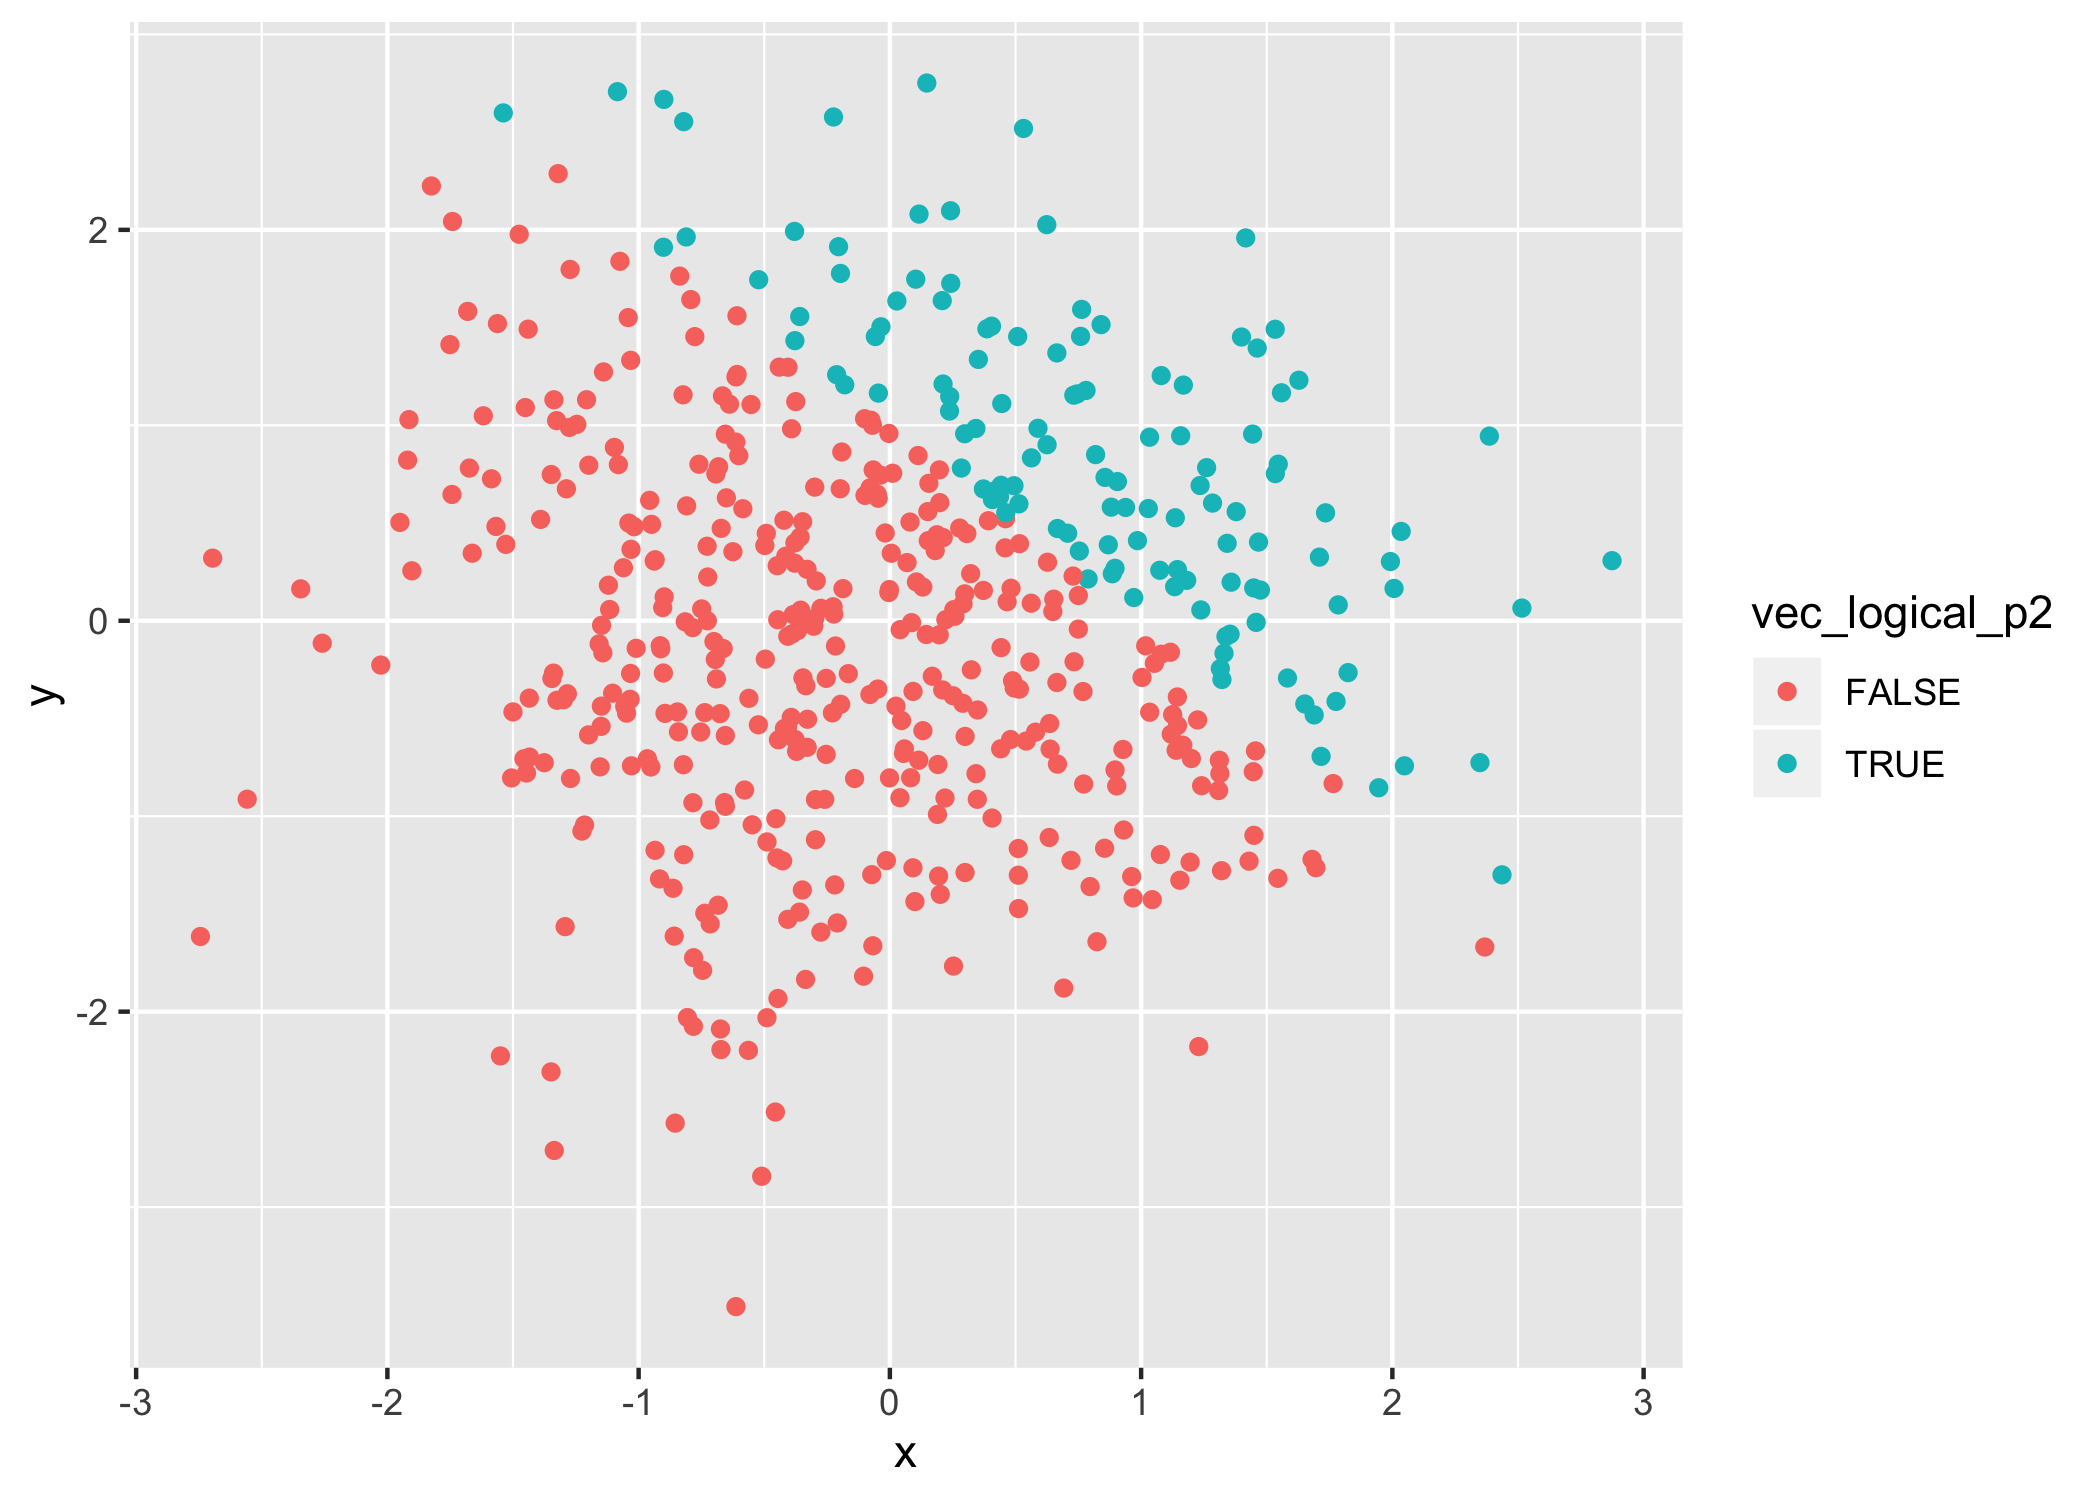
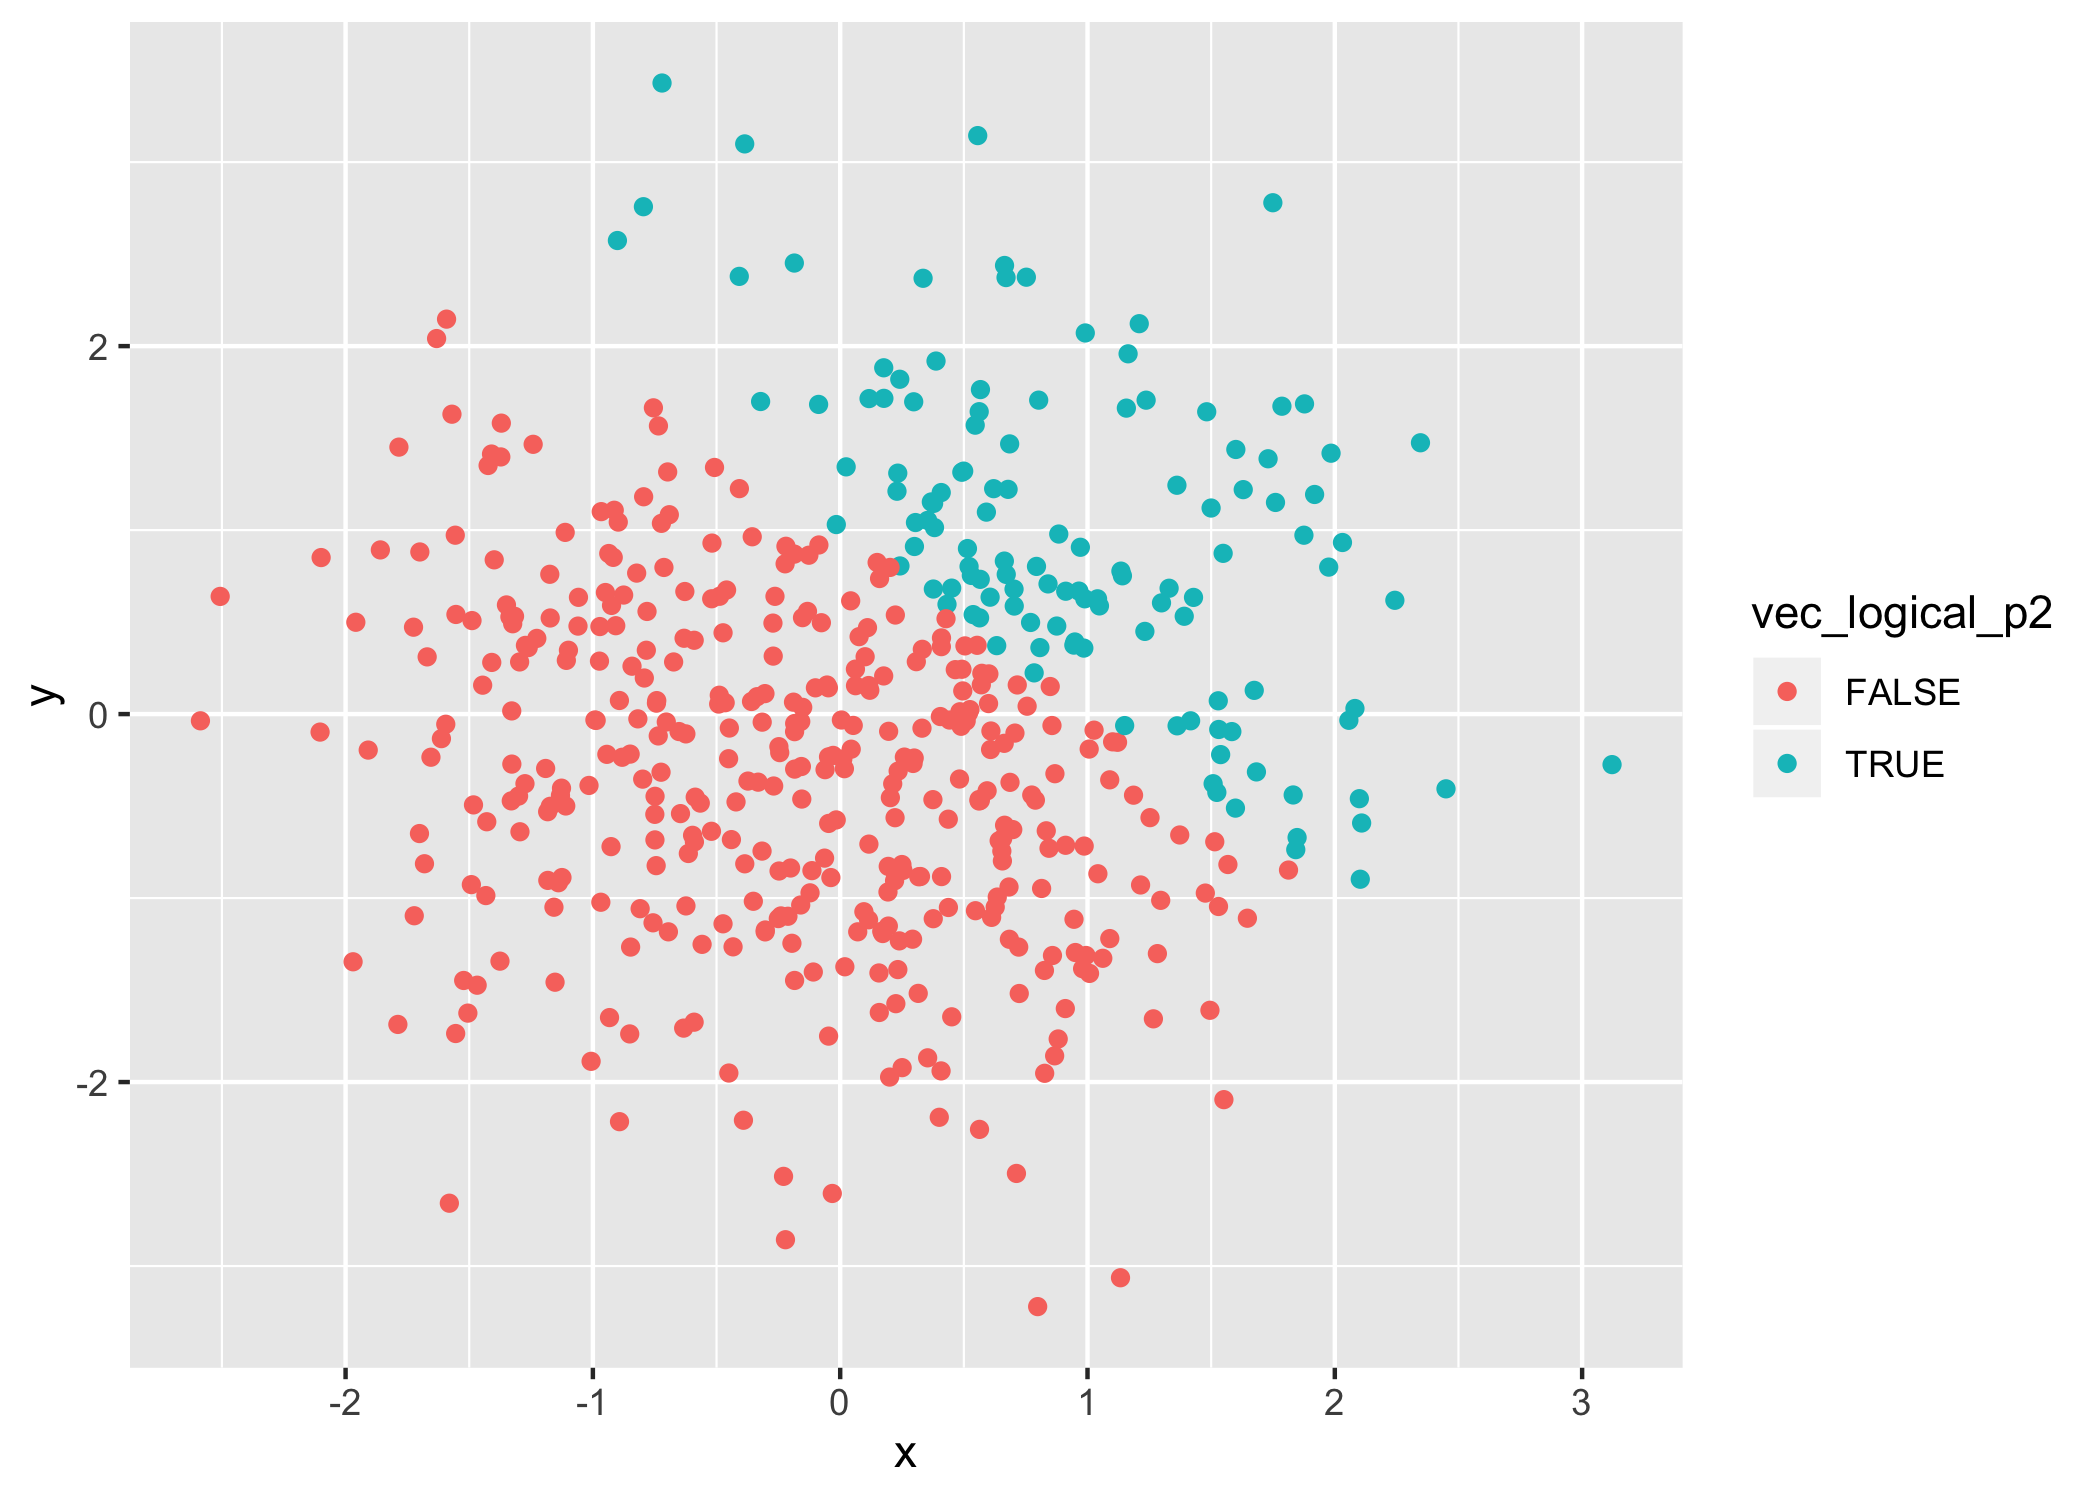
- changed my seeds to be less likely the same seeds another student may choose
-made minor formatting changes

diff --git a/p8105_hw1_jpb2210.md b/p8105_hw1_jpb2210.md
@@ -13,7 +13,7 @@ Jon Brock - JPB2210
 ##### *Create a data frame with specific inclusions:*
 
 ``` r
-set.seed(10) #I set a random seed for the sake of consistency and reproducibility
+set.seed(134) #I set a random seed for the sake of consistency and reproducibility
 prob1_df <- tibble(
     vec_numeric = rnorm(8),
     vec_logical = vec_numeric > 0,
@@ -26,8 +26,8 @@ prob1_df <- tibble(
 
 ##### *Taking the mean value of each vector within our data frame:*
 
-The mean value of `vec_numeric` is -0.378.  
-The mean value of `vec_logical` is 0.375.  
+The mean value of `vec_numeric` is 0.186.  
+The mean value of `vec_logical` is 0.5.  
 The mean value of `vec_character` is NA.  
 The mean value of `vec_factor` is NA.
 
@@ -48,7 +48,7 @@ and `vec_factor`. Additionally, while we did take a mean value from
 ##### *Create a data frame with specific inclusions:*
 
 ``` r
-set.seed(25) #I set a random seed for the sake of consistency and reproducibility
+set.seed(53) #I set a random seed for the sake of consistency and reproducibility
 prob2_df <- tibble(
     x = rnorm(500),
     y = rnorm(500),
@@ -60,14 +60,18 @@ prob2_df <- tibble(
 
 Let me tell you a few fun facts about `prob2_df`:
 
-``` 
-1. The data frame has 500 rows and 5 columns  
-2. The variable 'x' has:  
-    - a mean value of -0.02  
-    - a median value of -0.049  
-    - a standard deviation of 0.974    
-3. The proportion of cases for which `x + y > 1` is 0.248  
-```
+1.  The data frame has 500 rows and 5 columns  
+2.  The variable ‘x’ has:  
+
+<!-- end list -->
+
+  - a mean value of 0.057  
+  - a median value of 0.153  
+  - a standard deviation of 0.975  
+
+<!-- end list -->
+
+1.  The proportion of cases for which `x + y > 1` is 0.248
 
 -----
 
